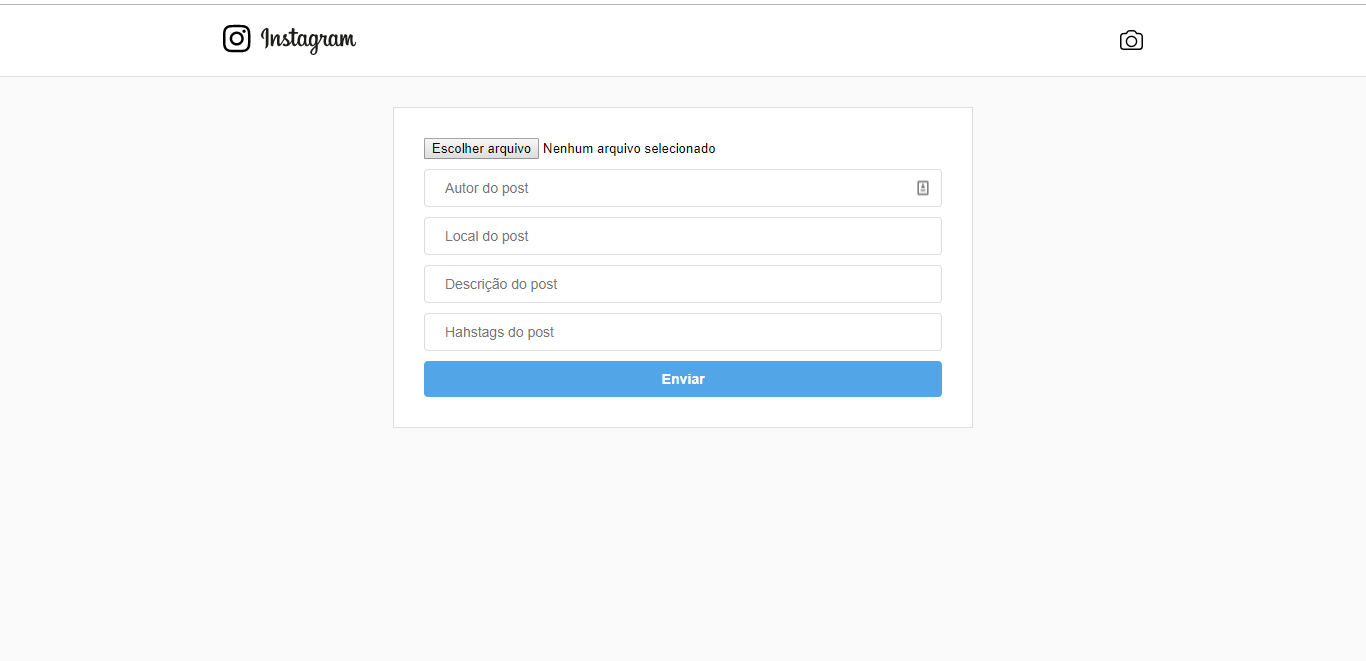
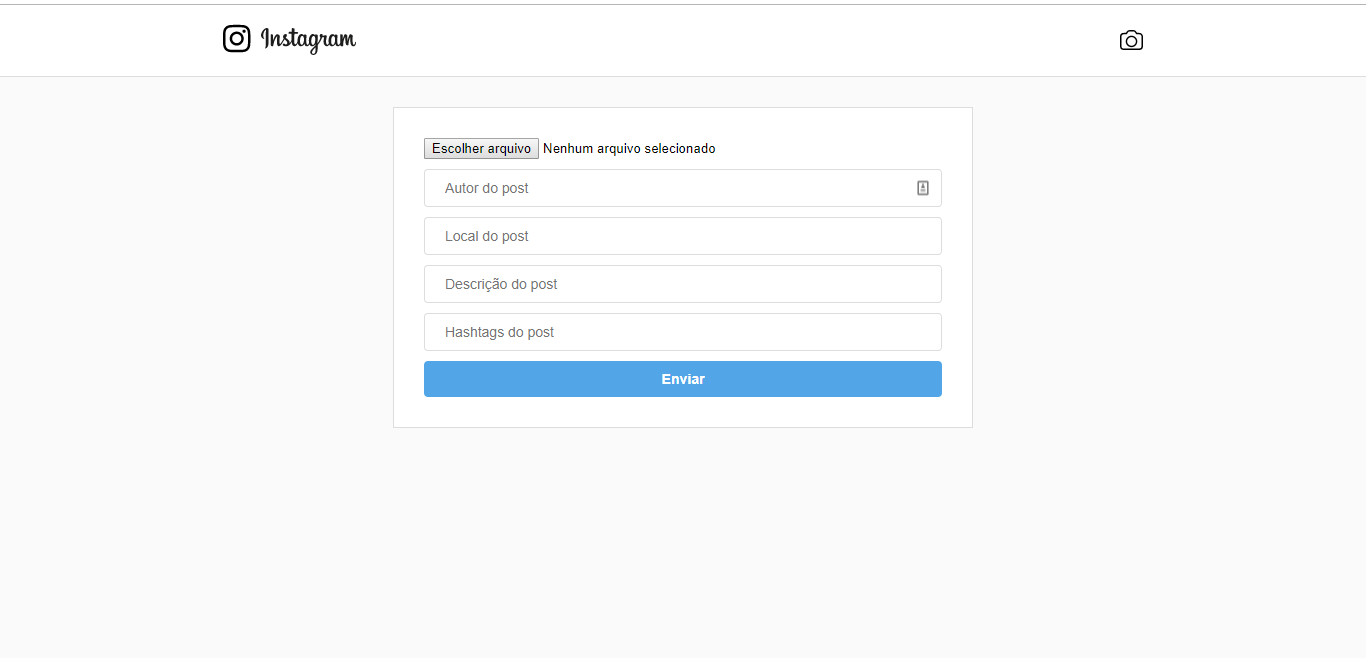
small fix

diff --git a/frontend/src/pages/New.js b/frontend/src/pages/New.js
@@ -69,7 +69,7 @@ class New extends Component {
                 <input 
                     type="text" 
                     name="hashtags" 
-                    placeholder="Hahstags do post"
+                    placeholder="Hashtags do post"
                     onChange={this.handleChange}
                     value={this.state.hashtags}>
                 </input>
